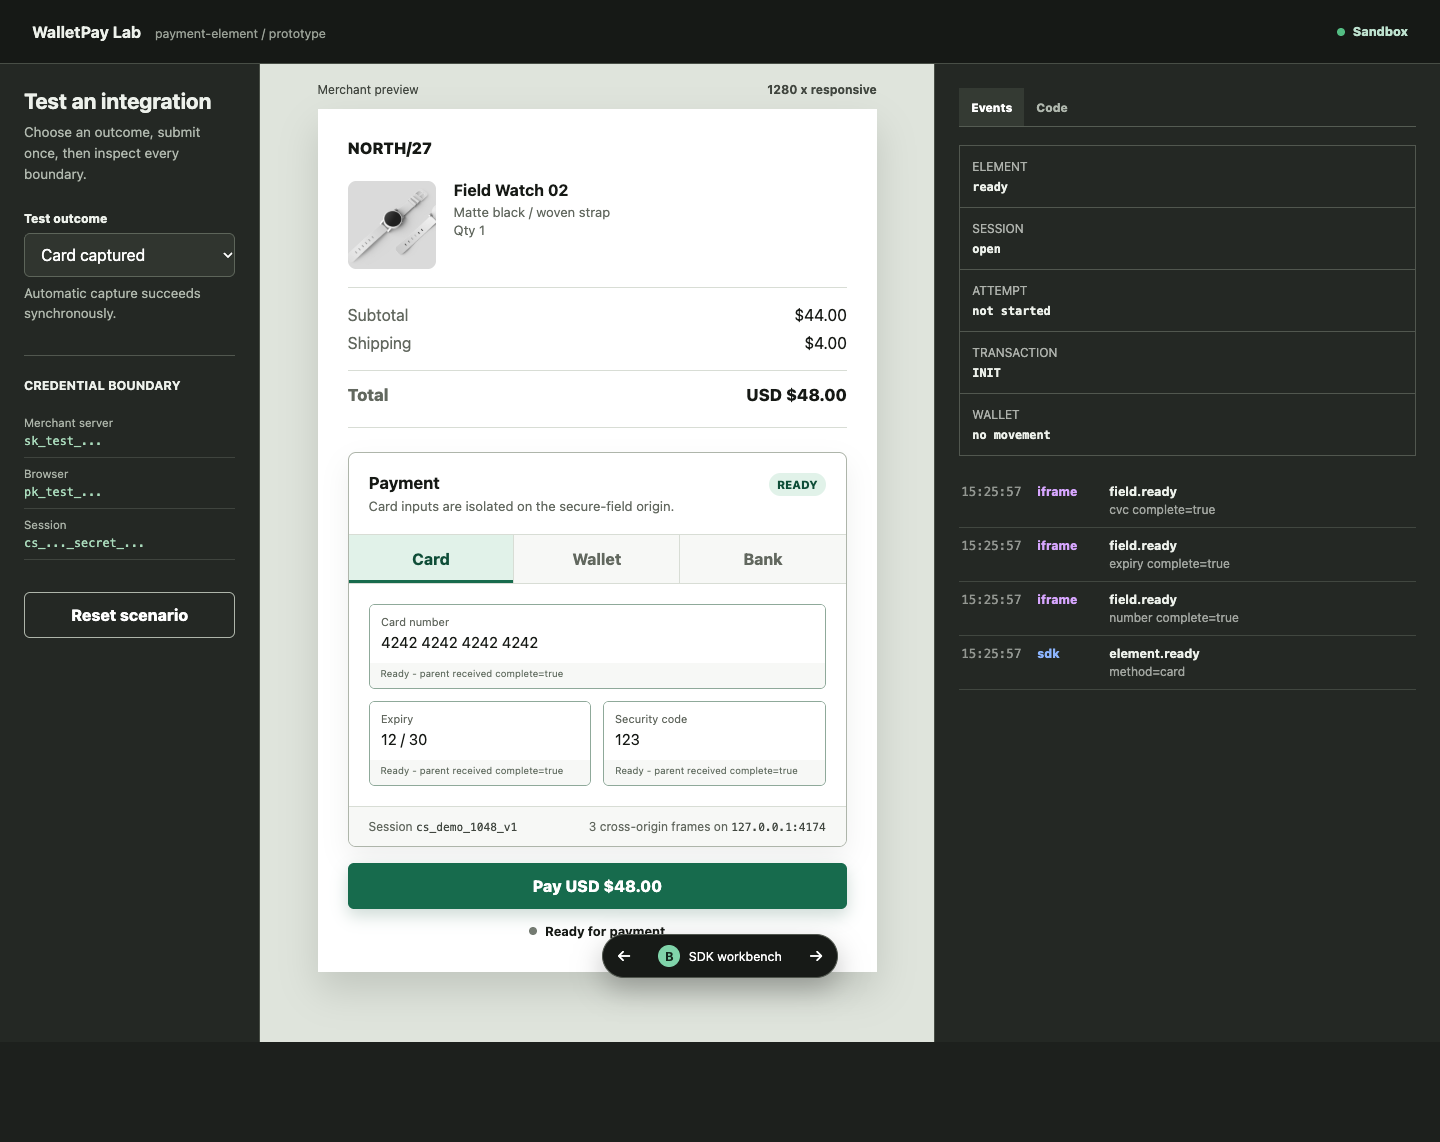
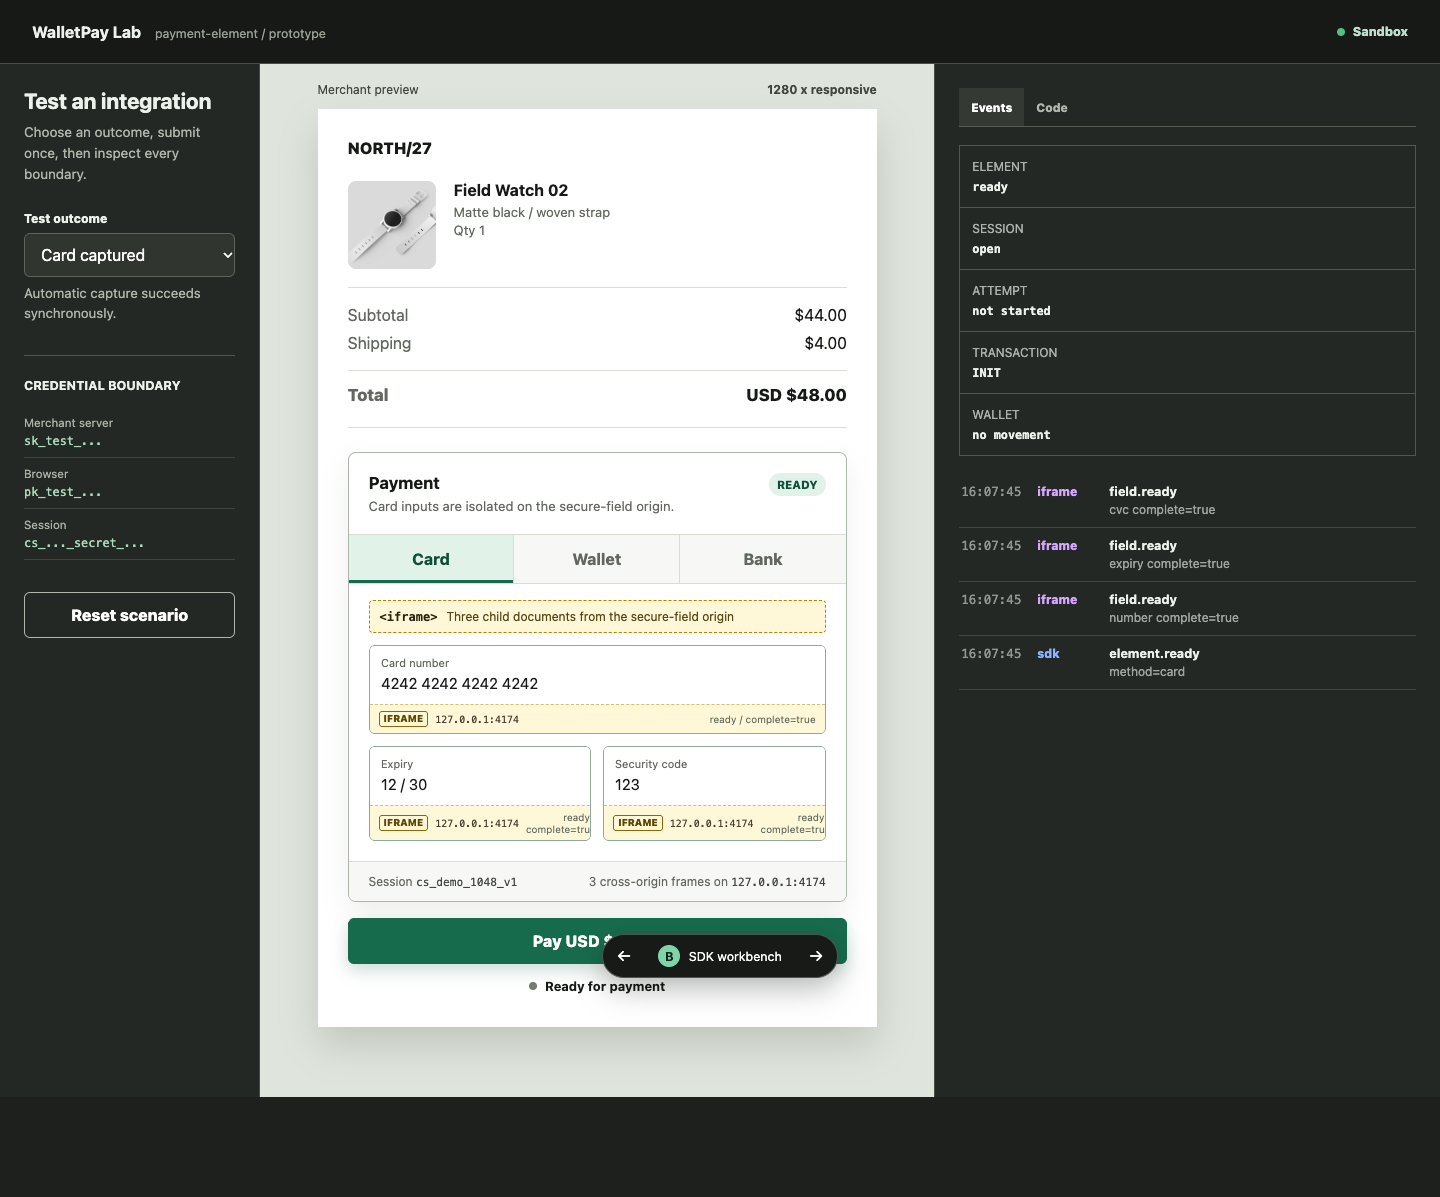
prototype: expose iframe boundaries

diff --git a/prototypes/payment-element/styles.css b/prototypes/payment-element/styles.css
@@ -321,7 +321,25 @@ pre,
   display: grid;
   grid-template-columns: 1fr 1fr;
   gap: 12px;
-  padding: 20px;
+  padding: 12px 20px 20px;
+}
+
+.iframe-boundary-note {
+  display: flex;
+  align-items: center;
+  gap: 9px;
+  margin: 16px 20px 0;
+  padding: 8px 10px;
+  border: 1px dashed #b88000;
+  border-radius: 4px;
+  color: #554713;
+  background: #fff8d8;
+  font-size: 0.75rem;
+}
+
+.iframe-boundary-note code {
+  color: #2a2410;
+  font-weight: 800;
 }
 
 .hosted-fields.is-disabled {
@@ -367,11 +385,38 @@ pre,
   background: #fff;
 }
 
-.hosted-field small {
-  min-height: 25px;
-  padding: 5px 11px 7px;
+.frame-meta {
+  min-height: 29px;
+  display: flex;
+  align-items: center;
+  gap: 7px;
+  padding: 5px 9px;
+  border-top: 1px dashed #d4bd78;
+  background: #fff8d8;
+}
+
+.frame-badge {
+  border: 1px solid #8d6800;
+  border-radius: 3px;
+  padding: 1px 4px;
+  color: #5f4700;
+  font-size: 0.61rem;
+  font-weight: 850;
+  line-height: 1.2;
+  text-transform: uppercase;
+}
+
+.frame-meta code {
+  color: #494033;
+  font-size: 0.62rem;
+}
+
+.frame-meta small {
+  min-width: 0;
+  margin-left: auto;
   color: #657064;
-  background: #f7f8f6;
+  font-size: 0.62rem;
+  text-align: right;
 }
 
 .method-message {
@@ -1308,6 +1353,17 @@ pre,
 
   .element-foot {
     flex-direction: column;
+  }
+
+  .frame-meta {
+    display: grid;
+    grid-template-columns: auto minmax(0, 1fr);
+  }
+
+  .frame-meta small {
+    grid-column: 1 / -1;
+    margin-left: 0;
+    text-align: left;
   }
 
   .scenario-rail {

diff --git a/prototypes/payment-element/app.js b/prototypes/payment-element/app.js
@@ -399,7 +399,11 @@ function secureFieldFrame(field, title, wide = false) {
         data-field="${field}"
         loading="eager"
       ></iframe>
-      <small data-frame-state="${field}">Loading cross-origin iframe :4174</small>
+      <div class="frame-meta">
+        <span class="frame-badge">iframe</span>
+        <code>127.0.0.1:4174</code>
+        <small data-frame-state="${field}">loading</small>
+      </div>
     </div>
   `;
 }
@@ -429,6 +433,10 @@ function paymentElement() {
       </div>
 
       ${state.method === "card" ? `
+        <div class="iframe-boundary-note">
+          <code>&lt;iframe&gt;</code>
+          <span>Three child documents from the secure-field origin</span>
+        </div>
         <div class="hosted-fields ${isBlocked ? "is-disabled" : ""}">
           ${secureFieldFrame("number", "Card number", true)}
           ${secureFieldFrame("expiry", "Expiry")}
@@ -804,8 +812,8 @@ function refreshFieldUi() {
       status.textContent = fieldState.errorCode
         ? fieldState.errorCode
         : fieldState.complete
-          ? "Ready - parent received complete=true"
-          : "Cross-origin iframe loaded";
+          ? "ready / complete=true"
+          : "ready / complete=false";
     }
   });
 
